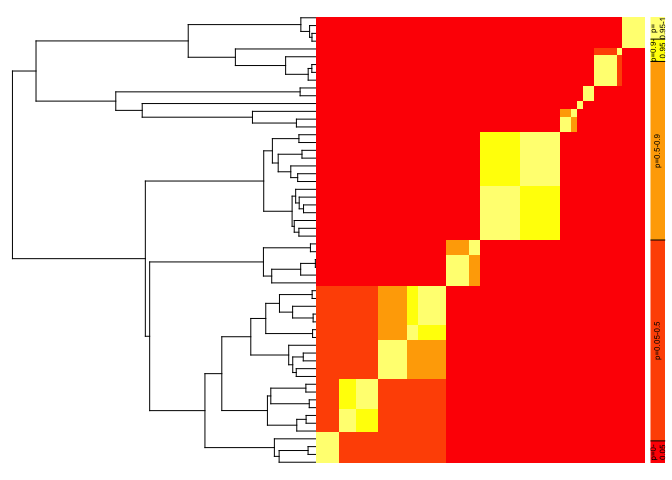
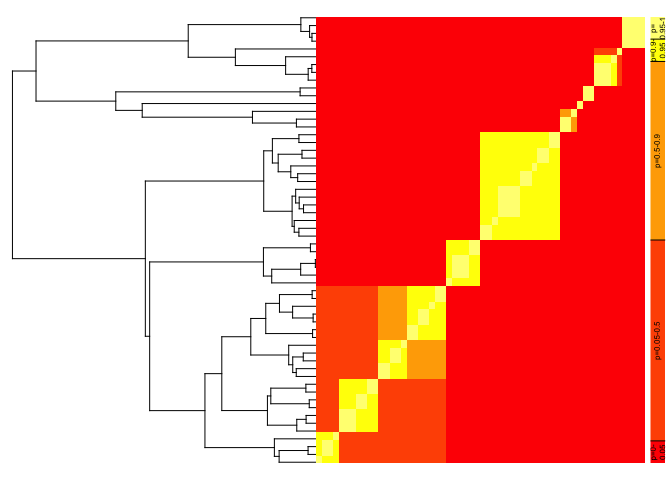
update

diff --git a/README.md b/README.md
@@ -82,7 +82,7 @@ fullgmyc<-bgmyc.singlephy(hypotree, mcmc=10000, burnin=1000, thinning=100)
 #> 100 % 
 #> acceptance rates 
 #>  py pc th 
-#>  0.7993 0.756 0.3462
+#>  0.8013 0.7425 0.3412
 
 #Calculate matrix of conspecificity probabilities
 fullgmyc.probmat<-bGMYC::spec.probmat(fullgmyc)
@@ -112,12 +112,13 @@ myres<-sGMYC(hypotree,subsamp=2,nreps=100)
 #> 
 #>  Number of species in full analysis vs. after subsampling 
 #>        full_GMYC min_sGMYC max_sGMYC mean_sGMYC sd_sGMYC #reps #subsamp per sp
-#> Tree 1        12         2         2          2        0   100               2
+#> Tree 1        12         2        11       2.09      0.9   100               2
 #> 
 #>  Number of species vs. number of subsampling replicates 
 #> $`Tree 1`
 #>   #species #reps
-#> 1        2   100
+#> 1        2    99
+#> 2       11     1
 ```
 
 5)  sGMYC estimates 2 species across all 100 subsampling replicates. We
@@ -164,4 +165,4 @@ doi: 10.1186/1471-2148-12-196.
 de Magalhães RF, Santos MTT & Camargo A. 2024. Subsampling GMYC (sGMYC):
 a new algorithmic implementation of the generalized mixed
 Yule-coalescent model. I Congresso Brasileiro de Biologia Evolutiva,
-Curitiba, Brasil.
+Curitiba, Brazil.
